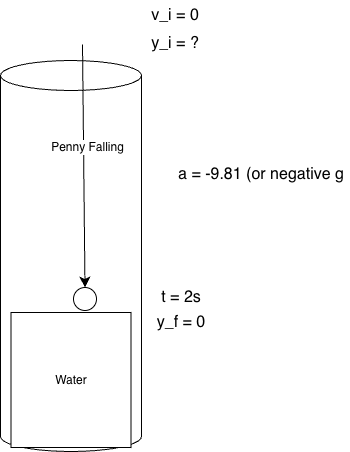
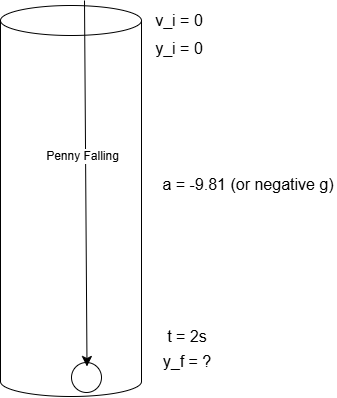
Built site for gh-pages

diff --git a/lectures/lecture_82826.html b/lectures/lecture_82826.html
@@ -248,23 +248,37 @@ window.Quarto = {
 <figcaption>Example problem 4 visualization</figcaption>
 </figure>
 </div>
-<p>Given the variables we have that would mean we need to use Kinematic 4.</p>
+<p>Given the variables we have that would mean we need to use Kinematic 4 as we are trying to solve for <span class="math inline">\(y_f\)</span></p>
 <p><span class="math display">\[
 X_f = X_i+V_i*t+\frac{1}{2}a*t^2
 \]</span></p>
-<p><span class="math display">\[
+<p>Removing the variables we know equate to zero our equation shifts: <span class="math display">\[
 y_f = y_i + \frac{1}{2}(-g)t^2
 \]</span></p>
-<p><span class="math display">\[
-y_f = \frac{1}{2}gt^2
+<p>And the final position of y is the depth of our well. <span class="math display">\[
+y_f = \frac{1}{2}(-g)t^2
 \]</span></p>
-<p>Penny is thrown down the well with a V_i = -2m/s and impacts in 1 second.</p>
+<p>Plugging in our values we find:</p>
+<p><span class="math display">\[
+y_f = \frac{1}{2}(-9.81 m/s)2s^2 \newline
+y_f = -19.6 \space \text{meters}
+\]</span></p>
+<p>Our answer tells us that our well is around 19.6 meters deep.</p>
+<hr>
+<p>Let’s shuffle our previous problem slightly to reveal additional algebra within the <a href="../lectures/lecture_82626.html#kinematic-equation-4">4th Kinematic equation</a>.</p>
+<p>Let’s assume the penny is thrown down the well (rather than dropped) with a <span class="math inline">\(V_i = -2m/s\)</span> and impacts in 1 second.</p>
 <p>This effectively becomes the same problem but with different parameters:</p>
 <p><span class="math display">\[
-y_f = y_i + v_{yi} + \frac{1}{2}a_yt^2-V_{yi}t
+y_f = y_i + v_{yi}*t + \frac{1}{2}a_yt^2-V_{yi}t
 \]</span></p>
+<p>Plugging in our known variables we find:</p>
 <p><span class="math display">\[
-y_f = \frac{1}{2}9.8m/s^2(1s)^2-(-2m/s)1s = 6.9m
+y_f = 0 + -2 m/s * 1 s + \frac{1}{2}(-9.81)(1s)^2
+\]</span></p>
+<p>Simplifying</p>
+<p><span class="math display">\[
+y_f = -2 + -4.905
+y_f = -6.905 meters
 \]</span></p>
 <p>In another form of this equation the penny is thrown upwards at 5m/s and hits the bottom of the well after 3s.</p>
 <p>Using the 4th equation again we get:</p>
@@ -296,15 +310,18 @@ h = 29.1 \space \text{meters deep}
 <p>A ball rolling off of a table:</p>
 <div class="quarto-figure quarto-figure-center">
 <figure class="figure">
-<p><img src="Lec2ExProblem4.png" class="img-fluid figure-img"></p>
+<p><img src="Lec2Ex1.drawio.png" class="img-fluid figure-img"></p>
 <figcaption>Example problem 1 visualized</figcaption>
 </figure>
 </div>
 <p>Taking stock of the variables we know we will associate with the final position of the ball as <span class="math inline">\(R\)</span></p>
-<p><span class="math display">\[
-X_f = X_i+V_i*t+\frac{1}{2}a*t^2
-\]</span></p>
-<p>Where we calculate x and y.</p>
+<p>In this problem we have to calculate both x and y indepdently in the same way we would normally calculate them.</p>
+<p>Firstly since the ball is rolling across the <span class="math inline">\(x\)</span> axis at 1m/s and we know the x axis takes on no additional acceleration we can calculate the x position of the ball using one of the kinematic equations, <a href="../lectures/lecture_82626.html#kinematic-equation-4">specifically equation 4:</a></p>
+<p>We will also have to calculate the y coordinate as well, using the same kinematic equation. Our example problem provides us with the necessary information to solve for both x and y.</p>
+<p>We will want to solve for y first since it will tell us how long the ball takes to drop, from there we can pause and solve for x at the same time frame to find where r is.</p>
+<ol type="1">
+<li><strong>Solve for <span class="math inline">\(Y_f\)</span> when </strong></li>
+</ol>
 
 
 </section>

diff --git a/lectures/lecture_82826.llms.md b/lectures/lecture_82826.llms.md
@@ -12,21 +12,37 @@ A penny is dropped down a well and his water after 2 seconds, how deep is the we
 
 Example problem 4 visualization
 
-Given the variables we have that would mean we need to use Kinematic 4.
+Given the variables we have that would mean we need to use Kinematic 4 as we are trying to solve for \\y_f\\
 
 \\ X_f = X_i+V_i\*t+\frac{1}{2}a\*t^2 \\
 
-\\ y_f = y_i + \frac{1}{2}(-g)t^2 \\
+Removing the variables we know equate to zero our equation shifts: \\ y_f = y_i + \frac{1}{2}(-g)t^2 \\
 
-\\ y_f = \frac{1}{2}gt^2 \\
+And the final position of y is the depth of our well. \\ y_f = \frac{1}{2}(-g)t^2 \\
 
-Penny is thrown down the well with a V_i = -2m/s and impacts in 1 second.
+Plugging in our values we find:
+
+\\ y_f = \frac{1}{2}(-9.81 m/s)2s^2 \newline y_f = -19.6 \space \text{meters} \\
+
+Our answer tells us that our well is around 19.6 meters deep.
+
+------------------------------------------------------------------------
+
+Let’s shuffle our previous problem slightly to reveal additional algebra within the [4th Kinematic equation](../lectures/lecture_82626.llms.md#kinematic-equation-4).
+
+Let’s assume the penny is thrown down the well (rather than dropped) with a \\V_i = -2m/s\\ and impacts in 1 second.
 
 This effectively becomes the same problem but with different parameters:
 
-\\ y_f = y_i + v\_{yi} + \frac{1}{2}a_yt^2-V\_{yi}t \\
+\\ y_f = y_i + v\_{yi}\*t + \frac{1}{2}a_yt^2-V\_{yi}t \\
 
-\\ y_f = \frac{1}{2}9.8m/s^2(1s)^2-(-2m/s)1s = 6.9m \\
+Plugging in our known variables we find:
+
+\\ y_f = 0 + -2 m/s \* 1 s + \frac{1}{2}(-9.81)(1s)^2 \\
+
+Simplifying
+
+\\ y_f = -2 + -4.905 y_f = -6.905 meters \\
 
 In another form of this equation the penny is thrown upwards at 5m/s and hits the bottom of the well after 3s.
 
@@ -50,12 +66,18 @@ Which simplifies to:
 
 A ball rolling off of a table:
 
-![](Lec2ExProblem4.png)
+![](Lec2Ex1.drawio.png)
 
 Example problem 1 visualized
 
 Taking stock of the variables we know we will associate with the final position of the ball as \\R\\
 
-\\ X_f = X_i+V_i\*t+\frac{1}{2}a\*t^2 \\
+In this problem we have to calculate both x and y indepdently in the same way we would normally calculate them.
 
-Where we calculate x and y.
+Firstly since the ball is rolling across the \\x\\ axis at 1m/s and we know the x axis takes on no additional acceleration we can calculate the x position of the ball using one of the kinematic equations, [specifically equation 4:](../lectures/lecture_82626.llms.md#kinematic-equation-4)
+
+We will also have to calculate the y coordinate as well, using the same kinematic equation. Our example problem provides us with the necessary information to solve for both x and y.
+
+We will want to solve for y first since it will tell us how long the ball takes to drop, from there we can pause and solve for x at the same time frame to find where r is.
+
+1.  **Solve for \\Y_f\\ when**
